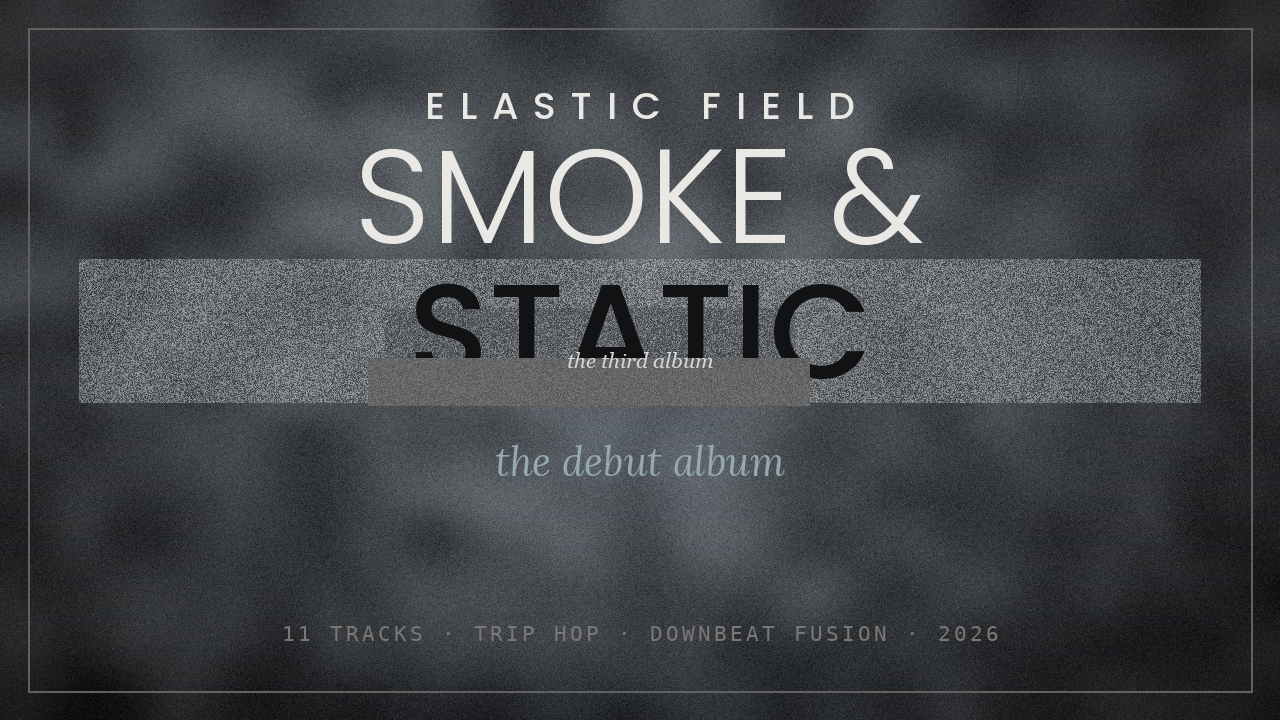
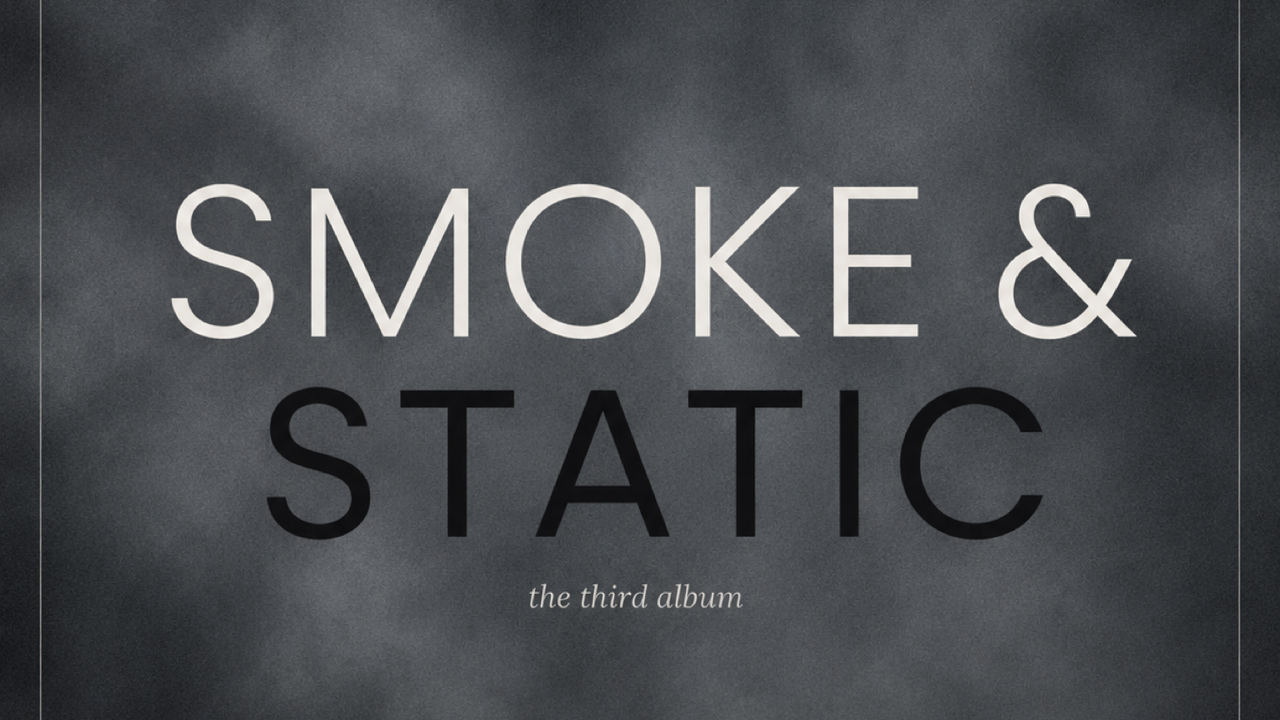
Replace Smoke & Static album cover with the new master artwork.
Updates 1:1 and 16:9 assets and drops cover from the site transition notice.

diff --git a/index.html b/index.html
@@ -223,7 +223,7 @@ h2{margin:0 0 16px;font-size:13px;font-weight:600;text-transform:uppercase;lette
 </header>
 
 <p class="site-notice" role="status">
-  <strong>Site in transition</strong> — Elastic Field Music is being updated (cover, shop &amp; streaming).
+  <strong>Site in transition</strong> — Elastic Field Music is being updated (shop &amp; streaming).
   <span> · Diese Seite befindet sich in der Umgestaltung.</span>
 </p>
 

diff --git a/MUSIC-CHECKLIST.md b/MUSIC-CHECKLIST.md
@@ -2,7 +2,7 @@
 
 ## Blockers (need you)
 
-- [ ] **Cover master** — clean 1:1 + 16:9 without “debut album” text
+- [x] **Cover master** — clean 1:1 + 16:9 (“the third album”)
 - [ ] **Gumroad** — product live, `gumroadUrl` in `shop-config.js`
 - [ ] **Streaming** — Smoke & Static on Spotify / Apple / Amazon (optional timeline)
 
